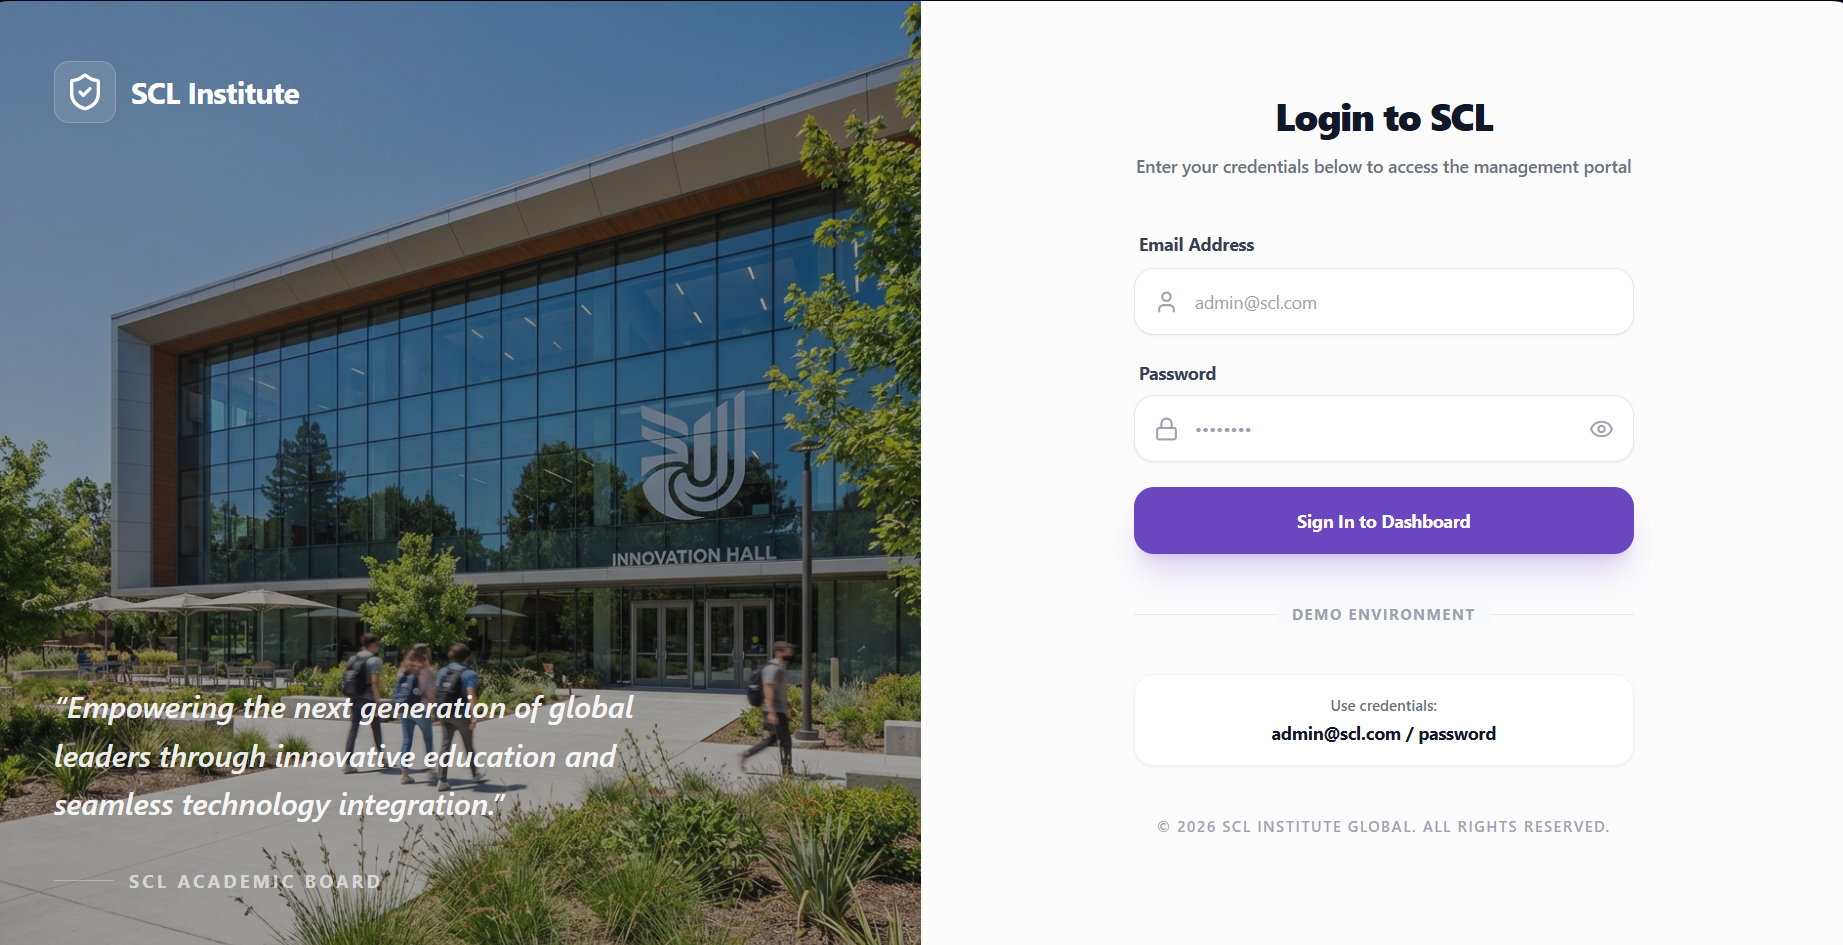
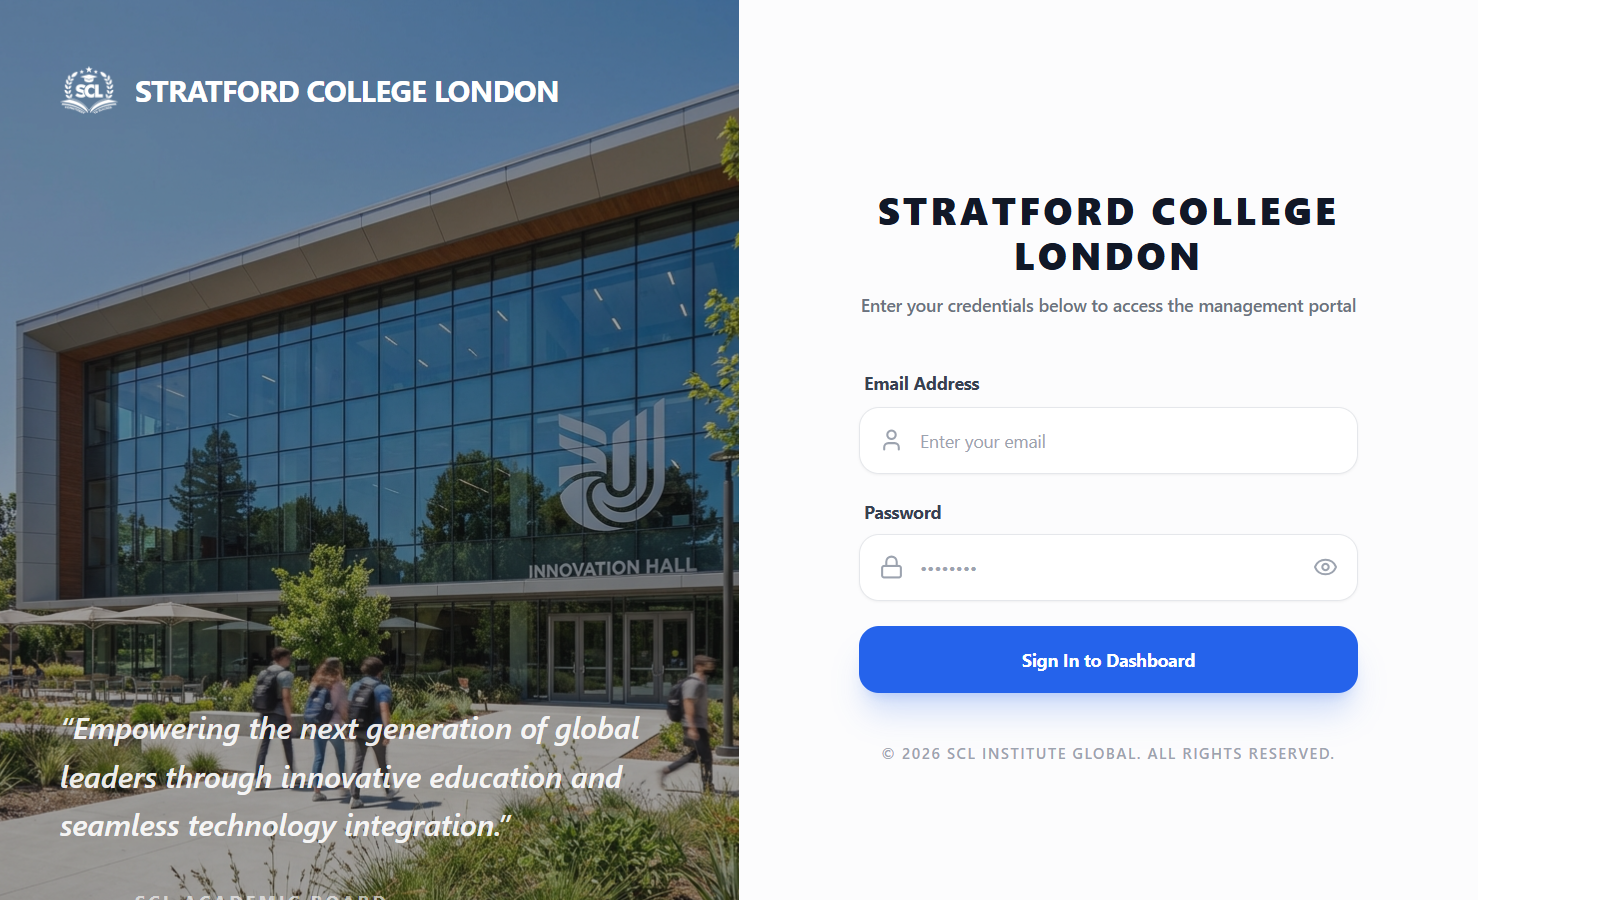
feat: embed live production screenshots from system.sclsandbox.xyz; fix URL references and demo accounts

diff --git a/SCL_COMPLETE_OVERVIEW.html b/SCL_COMPLETE_OVERVIEW.html
@@ -490,16 +490,17 @@
       </div>
     </div>
 
-    <div class="card-grid-3">
+    <div style="display:grid; grid-template-columns:repeat(3,1fr); gap:1.5rem;">
+      <!-- Row 1 -->
       <div>
         <div class="screen-frame">
           <div class="screen-bar">
             <div class="sbar-dot sbar-red"></div>
             <div class="sbar-dot sbar-yellow"></div>
             <div class="sbar-dot sbar-green"></div>
-            <span style="font-size:.78rem; color:#6b7280; margin-left:.5rem;">scl-institute.com/login</span>
+            <span style="font-size:.78rem; color:#6b7280; margin-left:.5rem;">system.sclsandbox.xyz/login</span>
           </div>
-          <img src="Client-Overview-Screenshots/screenshots/01-login-screen.png" alt="SCL Login Screen" onerror="this.style.display='none'; this.parentElement.style.background='#f3f4f6'; this.parentElement.innerHTML+='<div style=padding:2rem;text-align:center;color:#9ca3af;font-size:.9rem;>Login Screen<br>(screenshot)</div>'"/>
+          <img src="Client-Overview-Screenshots/screenshots/01-login-screen.png" alt="SCL Login Screen" style="width:100%;display:block;"/>
           <div class="screen-caption">
             <span>🔐</span> Login Page – Secure Email + Password Sign-In
           </div>
@@ -511,11 +512,11 @@
             <div class="sbar-dot sbar-red"></div>
             <div class="sbar-dot sbar-yellow"></div>
             <div class="sbar-dot sbar-green"></div>
-            <span style="font-size:.78rem; color:#6b7280; margin-left:.5rem;">scl-institute.com/admin/dashboard</span>
+            <span style="font-size:.78rem; color:#6b7280; margin-left:.5rem;">system.sclsandbox.xyz/</span>
           </div>
-          <img src="Client-Overview-Screenshots/screenshots/02-admin-dashboard.png" alt="Admin Dashboard" onerror="this.style.display='none'; this.parentElement.style.background='#f3f4f6'; this.parentElement.innerHTML+='<div style=padding:2rem;text-align:center;color:#9ca3af;font-size:.9rem;>Admin Dashboard<br>(screenshot)</div>'"/>
+          <img src="Client-Overview-Screenshots/screenshots/02-admin-dashboard.png" alt="Admin Dashboard" style="width:100%;display:block;"/>
           <div class="screen-caption">
-            <span>📊</span> Admin Dashboard – Modules &amp; Management Hub
+            <span>📊</span> Admin Dashboard – Live Stats &amp; Overview (37 users, 108 registrations)
           </div>
         </div>
       </div>
@@ -525,11 +526,69 @@
             <div class="sbar-dot sbar-red"></div>
             <div class="sbar-dot sbar-yellow"></div>
             <div class="sbar-dot sbar-green"></div>
-            <span style="font-size:.78rem; color:#6b7280; margin-left:.5rem;">moodle.scl-institute.com</span>
+            <span style="font-size:.78rem; color:#6b7280; margin-left:.5rem;">system.sclsandbox.xyz/applications</span>
           </div>
-          <img src="Client-Overview-Screenshots/screenshots/03-moodle-lms.png" alt="Moodle LMS" onerror="this.style.display='none'; this.parentElement.style.background='#f3f4f6'; this.parentElement.innerHTML+='<div style=padding:2rem;text-align:center;color:#9ca3af;font-size:.9rem;>Moodle LMS<br>(screenshot)</div>'"/>
+          <img src="Client-Overview-Screenshots/screenshots/03-applications.png" alt="Student Applications" style="width:100%;display:block;"/>
           <div class="screen-caption">
-            <span>🎓</span> Moodle LMS – Online Learning Courses &amp; Activities
+            <span>📋</span> Student Applications – Review, Approve &amp; Track (12 total)
+          </div>
+        </div>
+      </div>
+      <!-- Row 2 -->
+      <div>
+        <div class="screen-frame">
+          <div class="screen-bar">
+            <div class="sbar-dot sbar-red"></div>
+            <div class="sbar-dot sbar-yellow"></div>
+            <div class="sbar-dot sbar-green"></div>
+            <span style="font-size:.78rem; color:#6b7280; margin-left:.5rem;">system.sclsandbox.xyz/admin/lms-enrolments</span>
+          </div>
+          <img src="Client-Overview-Screenshots/screenshots/04-lms-enrolments.png" alt="LMS Enrolments" style="width:100%;display:block;"/>
+          <div class="screen-caption">
+            <span>🎓</span> LMS Enrolments – 70 Moodle Courses, 68 Enrolments
+          </div>
+        </div>
+      </div>
+      <div>
+        <div class="screen-frame">
+          <div class="screen-bar">
+            <div class="sbar-dot sbar-red"></div>
+            <div class="sbar-dot sbar-yellow"></div>
+            <div class="sbar-dot sbar-green"></div>
+            <span style="font-size:.78rem; color:#6b7280; margin-left:.5rem;">system.sclsandbox.xyz/admin/role-management</span>
+          </div>
+          <img src="Client-Overview-Screenshots/screenshots/05-role-management.png" alt="Role Management" style="width:100%;display:block;"/>
+          <div class="screen-caption">
+            <span>👥</span> User &amp; Role Management – Assign Roles to All Staff
+          </div>
+        </div>
+      </div>
+      <div>
+        <div class="screen-frame">
+          <div class="screen-bar">
+            <div class="sbar-dot sbar-red"></div>
+            <div class="sbar-dot sbar-yellow"></div>
+            <div class="sbar-dot sbar-green"></div>
+            <span style="font-size:.78rem; color:#6b7280; margin-left:.5rem;">system.sclsandbox.xyz/course-lifecycle</span>
+          </div>
+          <img src="Client-Overview-Screenshots/screenshots/06-course-lifecycle.png" alt="Course Lifecycle" style="width:100%;display:block;"/>
+          <div class="screen-caption">
+            <span>🔄</span> Course Lifecycle – 55 Courses Tracked (15 Fully Active)
+          </div>
+        </div>
+      </div>
+      <!-- Row 3 - full-width centred -->
+      <div style="grid-column:2;">
+        <div class="screen-frame">
+          <div class="screen-bar">
+            <div class="sbar-dot sbar-red"></div>
+            <div class="sbar-dot sbar-yellow"></div>
+            <div class="sbar-dot sbar-green"></div>
+            <span style="font-size:.78rem; color:#6b7280; margin-left:.5rem;">system.sclsandbox.xyz/programme-intakes</span>
+          </div>
+          <img src="Client-Overview-Screenshots/screenshots/07-programme-intakes.png" alt="Programme Intakes" style="width:100%;display:block;"/>
+          <div class="screen-caption">
+            <span>📅</span> Programme Intakes – Manage Cohorts &amp; Sync to Moodle
           </div>
         </div>
       </div>
@@ -602,7 +661,7 @@
         <div class="tech-dot" style="background:#fee2e2;">☁</div>
         <div>
           <div class="tech-name">VPS Production</div>
-          <div class="tech-desc">Dedicated server — 185.211.6.60, always online</div>
+          <div class="tech-desc">Dedicated server — system.sclsandbox.xyz, always online</div>
         </div>
       </div>
     </div>
@@ -1161,7 +1220,7 @@
       <!-- Layer 5: Infrastructure -->
       <div style="background:var(--dark); border-radius:12px; padding:1rem 1.5rem; text-align:center; color:white; margin-top:1rem;">
         <div style="font-size:.75rem; font-weight:700; opacity:.6; letter-spacing:.08em; margin-bottom:.2rem;">INFRASTRUCTURE</div>
-        <div style="font-size:.9rem; opacity:.8;">🐳 Docker Containers &nbsp;|&nbsp; 🌐 Nginx Web Server &nbsp;|&nbsp; ☁ VPS Server (185.211.6.60) &nbsp;|&nbsp; 🔒 SSL/HTTPS</div>
+        <div style="font-size:.9rem; opacity:.8;">🐳 Docker Containers &nbsp;|&nbsp; 🌐 Nginx Web Server &nbsp;|&nbsp; ☁ VPS Server (system.sclsandbox.xyz) &nbsp;|&nbsp; 🔒 SSL/HTTPS</div>
       </div>
     </div>
   </section>
@@ -1183,7 +1242,7 @@
         <div class="url-icon">🖥</div>
         <div>
           <div class="url-title">SCL Institute Portal (Main)</div>
-          <div class="url-link">http://185.211.6.60/</div>
+          <div class="url-link">http://system.sclsandbox.xyz/</div>
           <div class="url-desc">Main login and dashboard — where all staff and students sign in</div>
         </div>
       </div>
@@ -1199,7 +1258,7 @@
         <div class="url-icon">📊</div>
         <div>
           <div class="url-title">Admin Dashboard</div>
-          <div class="url-link">http://185.211.6.60/admin/dashboard</div>
+          <div class="url-link">http://system.sclsandbox.xyz/admin/dashboard</div>
           <div class="url-desc">Administration hub — applications, enrolments, reports (Admin only)</div>
         </div>
       </div>
@@ -1207,7 +1266,7 @@
         <div class="url-icon">🔌</div>
         <div>
           <div class="url-title">API Health Check</div>
-          <div class="url-link">http://185.211.6.60/api/health</div>
+          <div class="url-link">http://system.sclsandbox.xyz/api/health</div>
           <div class="url-desc">Technical endpoint to verify the backend is running (for IT support)</div>
         </div>
       </div>
@@ -1236,7 +1295,7 @@
           </div>
         </div>
         <div style="font-family:monospace; background:var(--gray-50); padding:.7rem; border-radius:8px; font-size:.85rem;">
-          📧 admin@scl.com<br>🔑 password
+          📧 admin@sclsandbox.xyz<br>🔑 password123
         </div>
       </div>
       <div class="card" style="border-left:5px solid #7c3aed;">
@@ -1248,7 +1307,7 @@
           </div>
         </div>
         <div style="font-family:monospace; background:var(--gray-50); padding:.7rem; border-radius:8px; font-size:.85rem;">
-          📧 student@scl.com<br>🔑 password
+          📧 student.ali.001@scl.edu<br>🔑 password123
         </div>
       </div>
       <div class="card" style="border-left:5px solid #d97706;">
@@ -1260,7 +1319,7 @@
           </div>
         </div>
         <div style="font-family:monospace; background:var(--gray-50); padding:.7rem; border-radius:8px; font-size:.85rem;">
-          📧 faculty@scl.com<br>🔑 password
+          📧 dr.ahmed.cs@scl.edu<br>🔑 password123
         </div>
       </div>
       <div class="card" style="border-left:5px solid #059669;">
@@ -1272,7 +1331,7 @@
           </div>
         </div>
         <div style="font-family:monospace; background:var(--gray-50); padding:.7rem; border-radius:8px; font-size:.85rem;">
-          📧 hr@scl.com<br>🔑 password
+          📧 lmsmanager@scl.edu<br>🔑 password123
         </div>
       </div>
     </div>
@@ -1345,7 +1404,7 @@
 <footer>
   <div class="f-logo">SCL <span>Institute</span></div>
   <p>Smart Learning Platform &mdash; Complete System Overview</p>
-  <p style="margin-top:.4rem;">Built with React &bull; Node.js &bull; MySQL &bull; Moodle &bull; Docker &nbsp;|&nbsp; Production: 185.211.6.60</p>
+  <p style="margin-top:.4rem;">Built with React &bull; Node.js &bull; MySQL &bull; Moodle &bull; Docker &nbsp;|&nbsp; Production: system.sclsandbox.xyz</p>
   <p style="margin-top:.6rem; font-size:.75rem; opacity:.4;">Generated April 2026 &mdash; For internal and client use</p>
 </footer>
 
